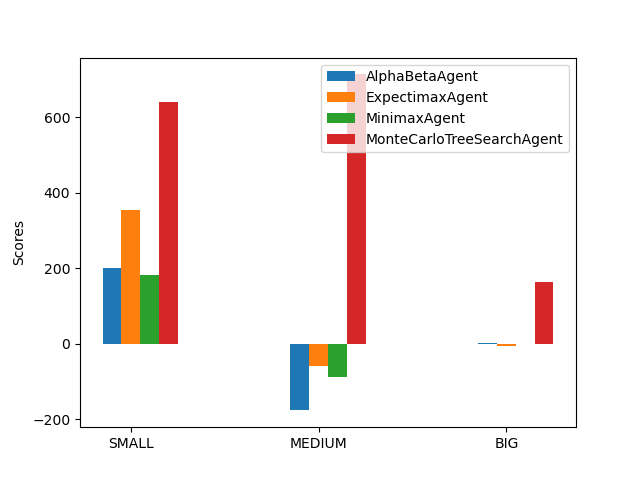
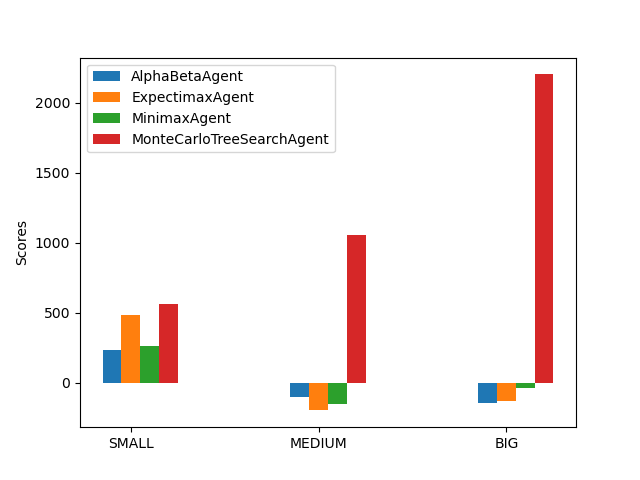
updated result images

diff --git a/source/2.multiagent/layoutCreation.py b/source/2.multiagent/layoutCreation.py
@@ -1,3 +1,4 @@
+'''
 import random
 from math import floor
 
@@ -6,117 +7,117 @@ mediumLayout = [20, 15]
 largeLayout = [35, 20]
 
 # Small Layout
-# numberOfLayouts = 30
-# while numberOfLayouts:
-#     f = open("layouts/small/small"+str(numberOfLayouts)+".lay", "w")
-#     rows = random.randint(5,smallLayout[0]) # 2 rows for walls
-#     columns = random.randint(6, smallLayout[1]) # 2 cols for walls
+numberOfLayouts = 30
+while numberOfLayouts:
+    f = open("layouts/small/small"+str(numberOfLayouts)+".lay", "w")
+    rows = random.randint(5,smallLayout[0]) # 2 rows for walls
+    columns = random.randint(6, smallLayout[1]) # 2 cols for walls
 
-#     totalBlocks = rows*columns
-#     randomNumber = random.randint(60,80) #No of food items in the layout between 75-100%
-#     foodItems = int((totalBlocks*randomNumber)/100)
+    totalBlocks = rows*columns
+    randomNumber = random.randint(60,80) #No of food items in the layout between 75-100%
+    foodItems = int((totalBlocks*randomNumber)/100)
 
-#     itemsLayout = [random.randint(1,rows), "%", foodItems]
+    itemsLayout = [random.randint(1,rows), "%", foodItems]
 
-#     pacmanPos = (random.randint(2,rows-2), random.randint(2, columns-2))
+    pacmanPos = (random.randint(2,rows-2), random.randint(2, columns-2))
 
-#     GHOST = [1,2,3]
-#     noOfGhosts = random.choices(GHOST,weights=(20, 60, 25))
-#     ghostNumbers = noOfGhosts[0]
-#     ghostPos = []
-#     for i in range(ghostNumbers):
-#         indexGhost = (random.randint(2,rows-2), random.randint(2, columns-2))
-#         if pacmanPos==indexGhost or indexGhost in ghostPos:
-#             while pacmanPos!=indexGhost and indexGhost not in ghostPos:
-#                 indexGhost = (random.randint(1,rows), random.randint(1, columns))
-#         ghostPos.append(indexGhost)
+    GHOST = [1,2,3]
+    noOfGhosts = random.choices(GHOST,weights=(20, 60, 25))
+    ghostNumbers = noOfGhosts[0]
+    ghostPos = []
+    for i in range(ghostNumbers):
+        indexGhost = (random.randint(2,rows-2), random.randint(2, columns-2))
+        if pacmanPos==indexGhost or indexGhost in ghostPos:
+            while pacmanPos!=indexGhost and indexGhost not in ghostPos:
+                indexGhost = (random.randint(1,rows), random.randint(1, columns))
+        ghostPos.append(indexGhost)
 
-#     # print(noOfGhosts)
-#     # print(ghostPos)
-#     # print(columns)
-#     for r in range(rows):
-#         line = ""
-#         for c in range(columns):
-#             if (r,c) == pacmanPos:
-#                 # print("P",end="")
-#                 line+="P"
-#                 continue
-#             if (r,c) in ghostPos:
-#                 # print("G",end="")
-#                 line+="G"
-#                 continue
-#             if (r==0 or r==rows-1) or (c==0 or c==columns-1):
-#                 # print("%", end="")
-#                 line+="%"
-#             else:
-#                 randomList = random.choices(itemsLayout, weights=(5, 15, 100))
-#                 index = itemsLayout.index(randomList[0])
-#                 if index==0:
-#                     # print("o",end="")
-#                     line+="o"
-#                 elif index==1:
-#                     # print("%",end="")
-#                     line+="%"
-#                 else:
-#                     # print(".",end="")
-#                     line+="."
-#         f.write(line+"\n")
-#         print(line)
+    # print(noOfGhosts)
+    # print(ghostPos)
+    # print(columns)
+    for r in range(rows):
+        line = ""
+        for c in range(columns):
+            if (r,c) == pacmanPos:
+                # print("P",end="")
+                line+="P"
+                continue
+            if (r,c) in ghostPos:
+                # print("G",end="")
+                line+="G"
+                continue
+            if (r==0 or r==rows-1) or (c==0 or c==columns-1):
+                # print("%", end="")
+                line+="%"
+            else:
+                randomList = random.choices(itemsLayout, weights=(5, 15, 100))
+                index = itemsLayout.index(randomList[0])
+                if index==0:
+                    # print("o",end="")
+                    line+="o"
+                elif index==1:
+                    # print("%",end="")
+                    line+="%"
+                else:
+                    # print(".",end="")
+                    line+="."
+        # f.write(line+"\n")
+        print(line)
     
-#     numberOfLayouts-=1
-#     print("++++++++++++++++++++++++++++++++++++++++++++++++")
+    numberOfLayouts-=1
+    print("++++++++++++++++++++++++++++++++++++++++++++++++")
 
 # # Medium Layout
-# numberOfLayouts = 30
-# while numberOfLayouts:
-#     f = open("layouts/medium/medium"+str(numberOfLayouts)+".lay", "x")
-#     rows = random.randint(13,mediumLayout[0]) # 2 rows for walls
-#     columns = random.randint(8, mediumLayout[1]) # 2 cols for walls
+numberOfLayouts = 30
+while numberOfLayouts:
+    f = open("layouts/medium/medium"+str(numberOfLayouts)+".lay", "x")
+    rows = random.randint(13,mediumLayout[0]) # 2 rows for walls
+    columns = random.randint(8, mediumLayout[1]) # 2 cols for walls
 
-#     totalBlocks = rows*columns
-#     randomNumber = random.randint(60,80) #No of food items in the layout between 75-100%
-#     foodItems = int((totalBlocks*randomNumber)/100)
+    totalBlocks = rows*columns
+    randomNumber = random.randint(60,80) #No of food items in the layout between 75-100%
+    foodItems = int((totalBlocks*randomNumber)/100)
 
-#     itemsLayout = [random.randint(1,rows), "%", foodItems]
+    itemsLayout = [random.randint(1,rows), "%", foodItems]
 
-#     pacmanPos = (random.randint(2,rows-2), random.randint(2, columns-2))
+    pacmanPos = (random.randint(2,rows-2), random.randint(2, columns-2))
 
-#     GHOST = [1,2,3]
-#     noOfGhosts = random.choices(GHOST,weights=(20, 25, 25))
-#     ghostNumbers = noOfGhosts[0]
-#     ghostPos = []
-#     for i in range(ghostNumbers):
-#         indexGhost = (random.randint(2,rows-2), random.randint(2, columns-2))
-#         if pacmanPos==indexGhost or indexGhost in ghostPos:
-#             while pacmanPos!=indexGhost and indexGhost not in ghostPos:
-#                 indexGhost = (random.randint(1,rows), random.randint(1, columns))
-#         ghostPos.append(indexGhost)
+    GHOST = [1,2,3]
+    noOfGhosts = random.choices(GHOST,weights=(20, 25, 25))
+    ghostNumbers = noOfGhosts[0]
+    ghostPos = []
+    for i in range(ghostNumbers):
+        indexGhost = (random.randint(2,rows-2), random.randint(2, columns-2))
+        if pacmanPos==indexGhost or indexGhost in ghostPos:
+            while pacmanPos!=indexGhost and indexGhost not in ghostPos:
+                indexGhost = (random.randint(1,rows), random.randint(1, columns))
+        ghostPos.append(indexGhost)
 
-#     for r in range(rows):
-#         line = ""
-#         for c in range(columns):
-#             if (r,c) == pacmanPos:
-#                 line+="P"
-#                 continue
-#             if (r,c) in ghostPos:
-#                 line+="G"
-#                 continue
-#             if (r==0 or r==rows-1) or (c==0 or c==columns-1):
-#                 line+="%"
-#             else:
-#                 randomList = random.choices(itemsLayout, weights=(5, 25, 100))
-#                 index = itemsLayout.index(randomList[0])
-#                 if index==0:
-#                     line+="o"
-#                 elif index==1:
-#                     line+="%"
-#                 else:
-#                     line+="."
-#         f.write(line+"\n")
-#         print(line)
+    for r in range(rows):
+        line = ""
+        for c in range(columns):
+            if (r,c) == pacmanPos:
+                line+="P"
+                continue
+            if (r,c) in ghostPos:
+                line+="G"
+                continue
+            if (r==0 or r==rows-1) or (c==0 or c==columns-1):
+                line+="%"
+            else:
+                randomList = random.choices(itemsLayout, weights=(5, 25, 100))
+                index = itemsLayout.index(randomList[0])
+                if index==0:
+                    line+="o"
+                elif index==1:
+                    line+="%"
+                else:
+                    line+="."
+        # f.write(line+"\n")
+        print(line)
     
-#     numberOfLayouts-=1
-#     print("++++++++++++++++++++++++++++++++++++++++++++++++")
+    numberOfLayouts-=1
+    print("++++++++++++++++++++++++++++++++++++++++++++++++")
 
 # HARD Layout
 numberOfLayouts = 30
@@ -194,7 +195,7 @@ while numberOfLayouts:
         layoutArray[r].append(line)
         print(line)
     
-    f.write(layoutArray[0][0]+"\n")
+    # f.write(layoutArray[0][0]+"\n")
     for i in range(1,rows-1):
         for j in range(1,columns-1):
             if layoutArray[i][0][j] == ".":
@@ -206,10 +207,11 @@ while numberOfLayouts:
                         splitLayout[j] = "%"
                         joinAgain = "".join(splitLayout)
                         layoutArray[i] = [joinAgain]
-        f.write(layoutArray[i][0]+"\n")
+        # f.write(layoutArray[i][0]+"\n")
     
-    f.write(layoutArray[-1][0]+"\n")
+    # f.write(layoutArray[-1][0]+"\n")
 
     
     numberOfLayouts-=1
     print("++++++++++++++++++++++++++++++++++++++++++++++++")
+'''

diff --git a/source/2.multiagent/analysis/anova_testing.py b/source/2.multiagent/analysis/anova_testing.py
@@ -9,7 +9,7 @@ import json
 # CUSTOMLAYOUTS = ["openClassicR", "openClassicA", "openClassicN", "openClassicP", "mctsmodelClassic"]
 
 LAYOUT_CLASS = ["SMALL", "MEDIUM", "BIG"]
-COUNT=30 #Layouts per Class {small, medium, big}
+COUNT=20 #Layouts per Class {small, medium, big}
 LAYOUTS_NEW = []
 LAYOUT_NAME =[ "small", "medium", "big"]
 for i in range(3):
